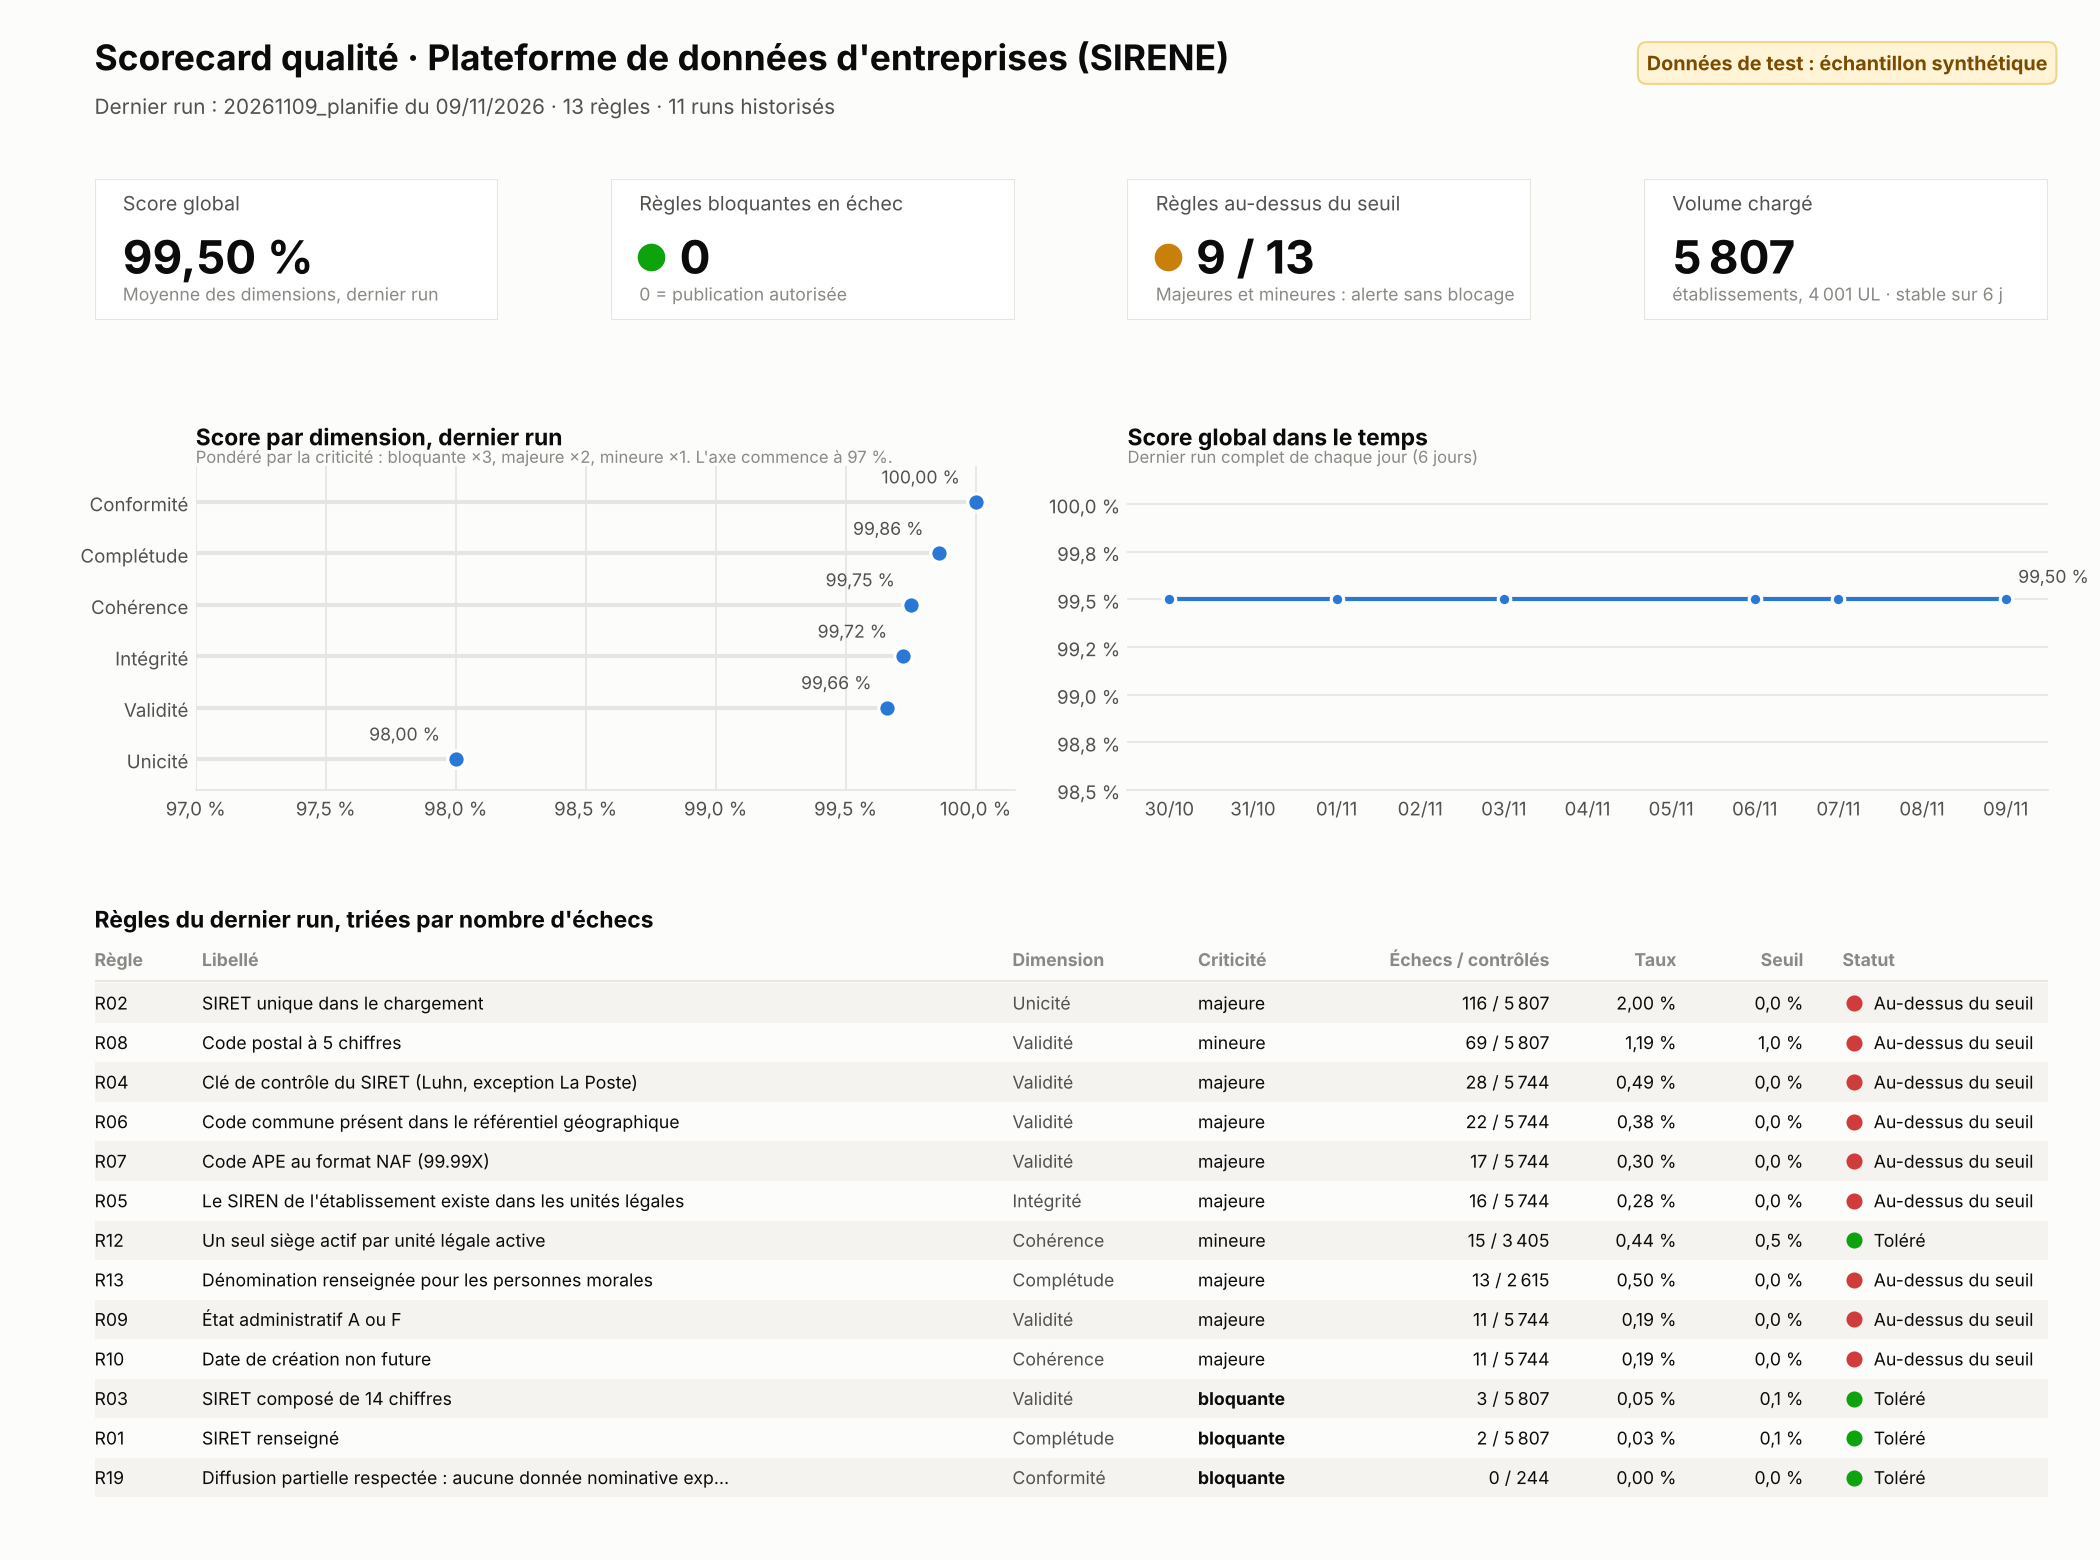
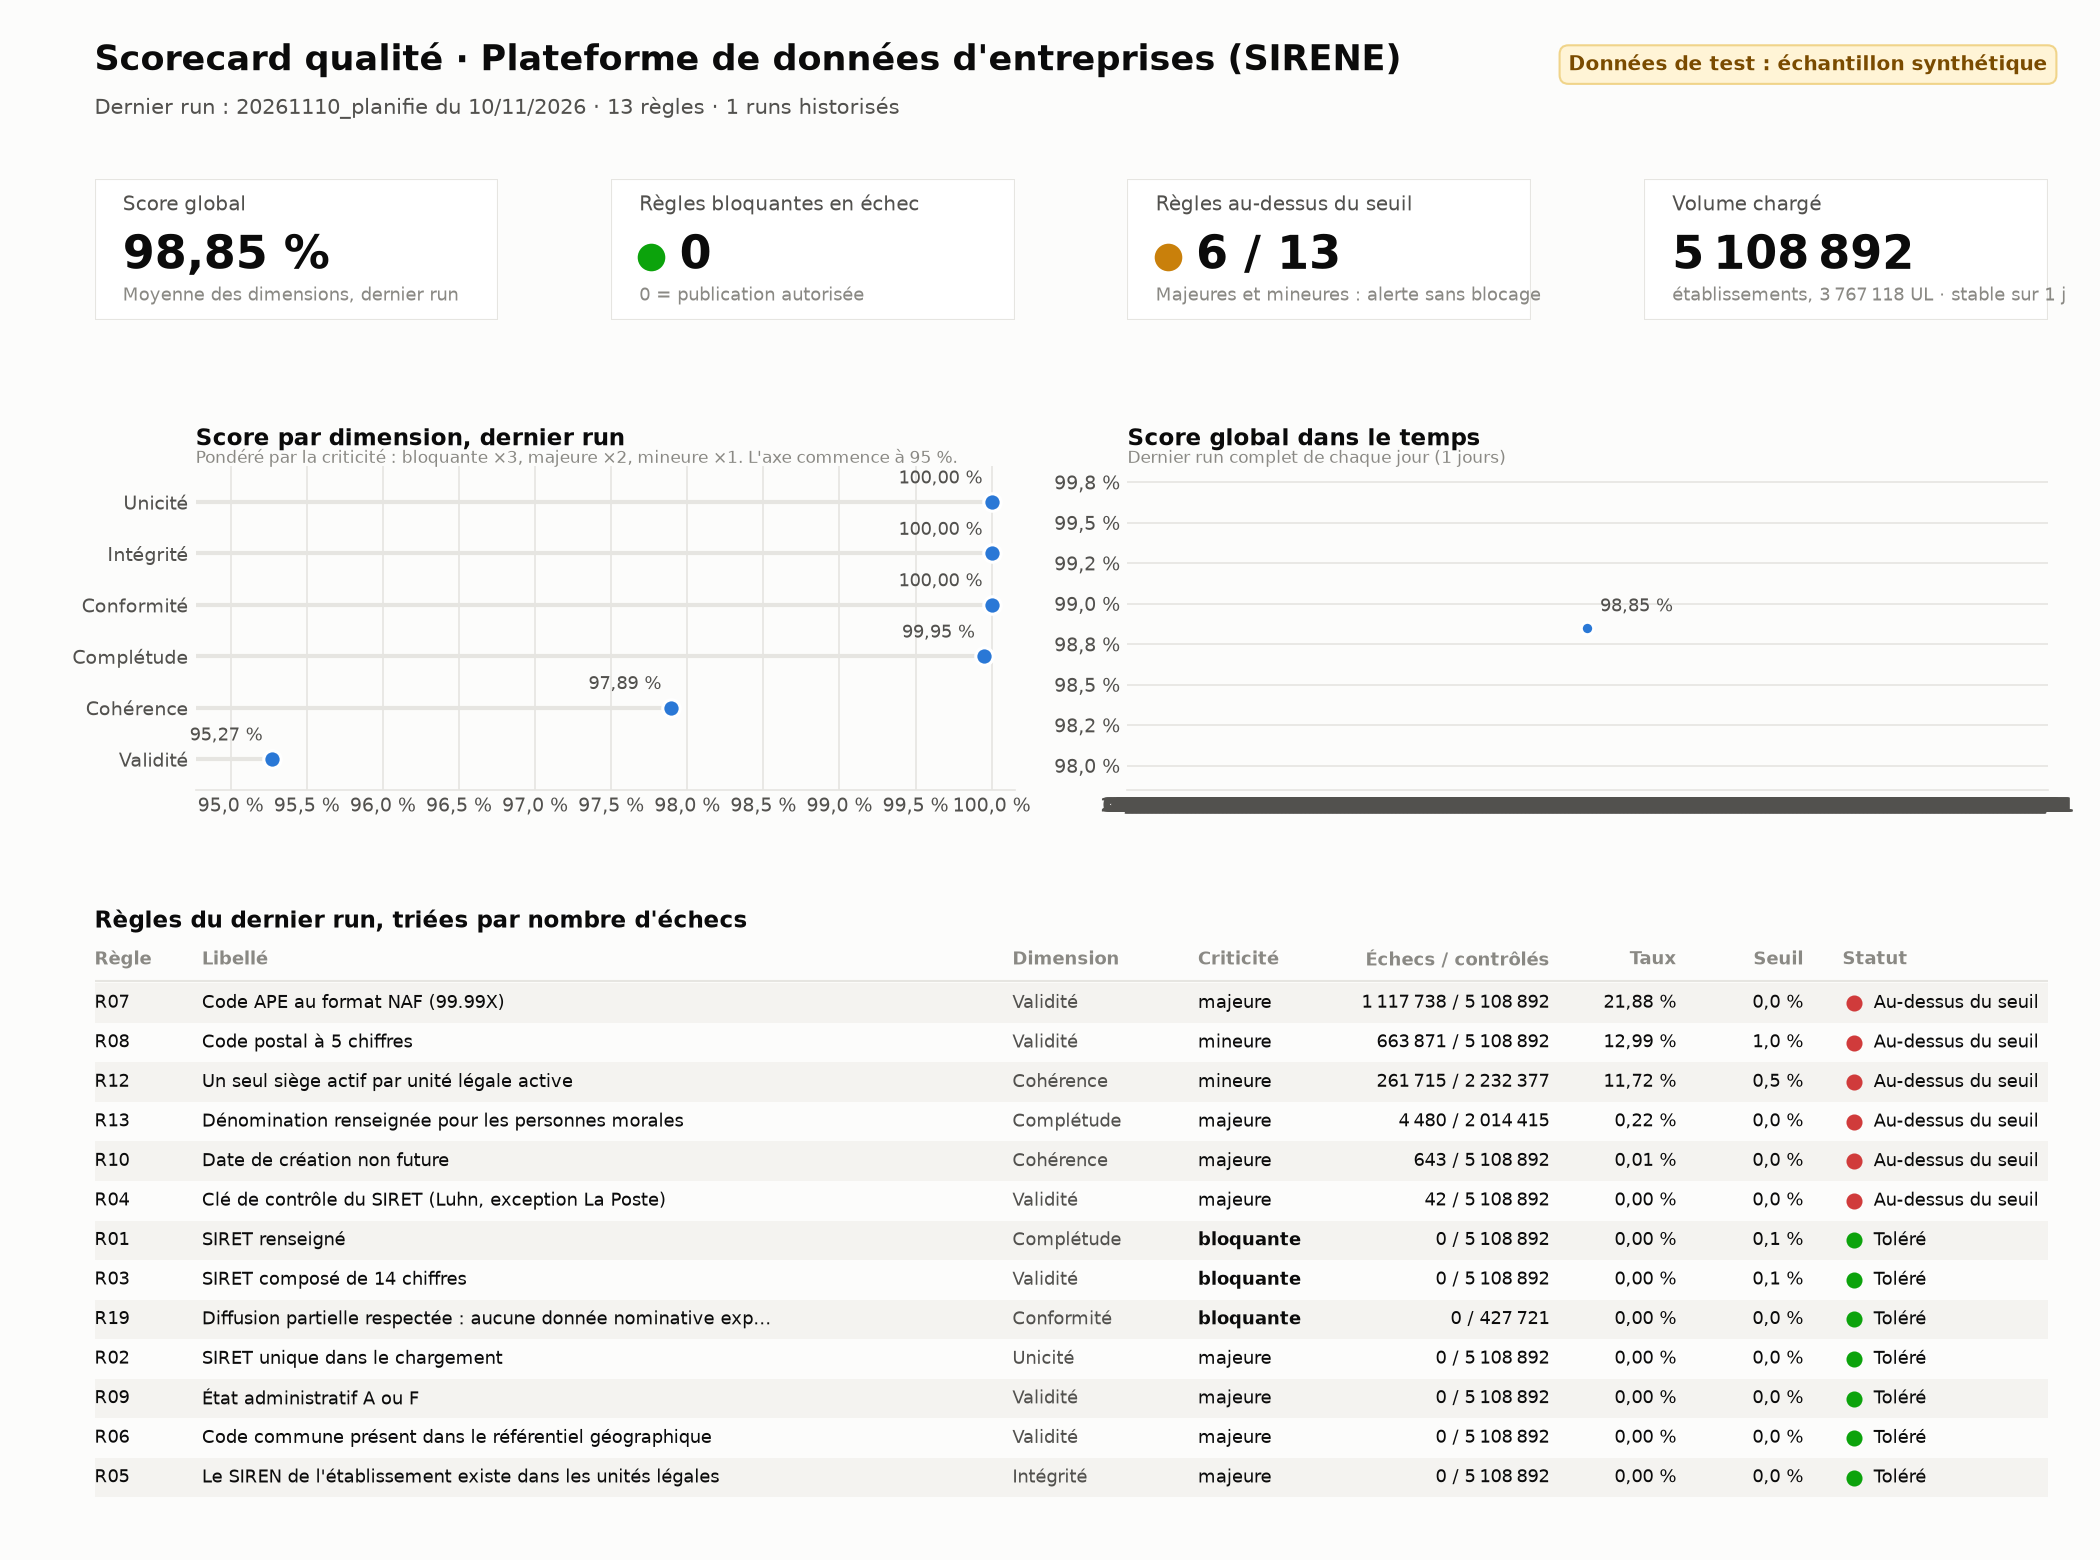
scorecard python

diff --git a/dashboards/scorecard.py b/dashboards/scorecard.py
@@ -1,0 +1,253 @@
+"""Scorecard qualité : une image PNG lisible en dix secondes, construite depuis exports/.
+
+    python dashboards/scorecard.py                      # lit exports/, écrit dashboards/scorecard.png
+    python dashboards/scorecard.py --exports exports_historique --sortie dashboards/scorecard_historique.png
+
+Le scorecard est du code : il se régénère après chaque run, se versionne et se relit
+en revue, comme le reste du pipeline. Power BI reste possible à partir des mêmes CSV.
+"""
+import argparse
+from pathlib import Path
+
+import matplotlib
+
+matplotlib.use("Agg")
+import matplotlib.dates as mdates  # noqa: E402
+import matplotlib.ticker  # noqa: E402,F401
+import matplotlib.pyplot as plt  # noqa: E402
+import pandas as pd  # noqa: E402
+
+RACINE = Path(__file__).resolve().parent.parent
+
+# Encre, surface, couleurs. Le bleu porte la donnée ; les couleurs de statut ne servent
+# qu'aux statuts et sont toujours accompagnées d'un libellé.
+SURFACE = "#fcfcfb"
+ENCRE = "#0b0b0b"
+ENCRE_2 = "#52514e"
+ENCRE_3 = "#8a8984"
+GRILLE = "#e6e5e1"
+BLEU = "#2a78d6"
+OK = "#0ca30c"
+ECHEC = "#d03b3b"
+ATTENTION = "#c9800b"
+
+plt.rcParams.update({
+    "font.family": "sans-serif",
+    "font.sans-serif": ["Inter", "Segoe UI", "Helvetica", "Arial", "DejaVu Sans"],
+    "font.size": 10,
+    "text.color": ENCRE,
+    "axes.edgecolor": GRILLE,
+    "axes.labelcolor": ENCRE_2,
+    "xtick.color": ENCRE_2,
+    "ytick.color": ENCRE_2,
+    "figure.facecolor": SURFACE,
+    "axes.facecolor": SURFACE,
+})
+
+ORDRE_CRITICITE = {"bloquante": 0, "majeure": 1, "mineure": 2}
+
+
+def pct(x, decimales=2):
+    return f"{x:.{decimales}f}".replace(".", ",") + " %"
+
+
+def nombre(n):
+    return f"{int(n):,}".replace(",", " ")
+
+
+def charger(dossier):
+    scores = pd.read_csv(dossier / "dq_scores.csv", parse_dates=["date_chargement"])
+    resultats = pd.read_csv(dossier / "dq_resultats.csv", parse_dates=["date_chargement"])
+    chargements = pd.read_csv(dossier / "chargements.csv", parse_dates=["date_chargement"])
+    return scores, resultats, chargements
+
+
+def runs_complets(resultats):
+    """Un run est complet s'il a évalué autant de règles que le run le plus complet.
+    Un run interrompu (dbt en erreur, par exemple) fausserait la tendance."""
+    nb = resultats.groupby("run_id")["regle_id"].nunique()
+    return set(nb[nb == nb.max()].index)
+
+
+def dernier_run_par_jour(table, complets):
+    t = table[table["run_id"].isin(complets)]
+    derniers = t.groupby("date_chargement")["run_id"].max()
+    return t[t["run_id"].isin(derniers.values)]
+
+
+def tuile(ax, titre, valeur, detail, couleur_valeur=ENCRE, pastille=None):
+    ax.set_axis_off()
+    ax.add_patch(plt.Rectangle((0, 0), 1, 1, transform=ax.transAxes, facecolor="white",
+                               edgecolor=GRILLE, linewidth=1))
+    ax.text(0.07, 0.78, titre, fontsize=9.5, color=ENCRE_2, transform=ax.transAxes)
+    x = 0.07
+    if pastille:
+        ax.scatter([0.10], [0.45], s=150, color=pastille, transform=ax.transAxes, clip_on=False)
+        x = 0.17
+    ax.text(x, 0.45, valeur, fontsize=22, fontweight="bold", color=couleur_valeur,
+            va="center", transform=ax.transAxes)
+    ax.text(0.07, 0.14, detail, fontsize=8.5, color=ENCRE_3, transform=ax.transAxes)
+
+
+def graphe_dimensions(ax, dims):
+    dims = dims.sort_values("score_pct")
+    y = range(len(dims))
+    bas = min(97.0, dims["score_pct"].min() - 0.5)
+    ax.hlines(y, bas, dims["score_pct"], color=GRILLE, linewidth=2)
+    ax.scatter(dims["score_pct"], y, s=70, color=BLEU, zorder=3, edgecolor="white", linewidth=1.5)
+    for i, (_, l) in enumerate(dims.iterrows()):
+        ax.text(l["score_pct"] - 0.06, i + 0.28, pct(l["score_pct"]), fontsize=8.5,
+                color=ENCRE_2, ha="right", va="bottom")
+    ax.set_yticks(list(y), dims["dimension"])
+    ax.set_xlim(bas, 100.15)
+    ax.set_ylim(-0.6, len(dims) - 0.3)
+    ax.xaxis.set_major_locator(matplotlib.ticker.MultipleLocator(0.5))
+    ax.xaxis.set_major_formatter(lambda v, _: f"{v:.1f} %".replace(".", ","))
+    ax.tick_params(length=0, labelsize=9)
+    ax.grid(axis="x", color=GRILLE, linewidth=0.8)
+    ax.set_axisbelow(True)
+    for cote in ("top", "right", "left"):
+        ax.spines[cote].set_visible(False)
+    ax.set_title("Score par dimension, dernier run", loc="left", fontsize=11,
+                 fontweight="bold", pad=10)
+    ax.text(0, 1.01, "Pondéré par la criticité : bloquante ×3, majeure ×2, mineure ×1. "
+            "L'axe commence à " + f"{bas:.0f} %.", transform=ax.transAxes, fontsize=8,
+            color=ENCRE_3)
+
+
+def graphe_tendance(ax, tendance):
+    ax.plot(tendance["date_chargement"], tendance["score_pct"], color=BLEU, linewidth=2,
+            marker="o", markersize=6, markeredgecolor="white", markeredgewidth=1.5)
+    der = tendance.iloc[-1]
+    ax.annotate(pct(der["score_pct"]), (der["date_chargement"], der["score_pct"]),
+                xytext=(6, 8), textcoords="offset points", fontsize=8.5, color=ENCRE_2)
+    centre = tendance["score_pct"].mean()
+    marge = max(1.0, (tendance["score_pct"].max() - tendance["score_pct"].min()) * 1.5)
+    ax.set_ylim(max(0, centre - marge), min(100.2, centre + marge))
+    ax.yaxis.set_major_formatter(lambda v, _: f"{v:.1f} %".replace(".", ","))
+    ax.xaxis.set_major_formatter(mdates.DateFormatter("%d/%m"))
+    ax.xaxis.set_major_locator(mdates.DayLocator(interval=max(1, len(tendance) // 7 or 1)))
+    ax.tick_params(length=0, labelsize=9)
+    ax.grid(axis="y", color=GRILLE, linewidth=0.8)
+    ax.set_axisbelow(True)
+    for cote in ("top", "right", "left"):
+        ax.spines[cote].set_visible(False)
+    ax.set_title("Score global dans le temps", loc="left", fontsize=11, fontweight="bold", pad=10)
+    ax.text(0, 1.01, f"Dernier run complet de chaque jour ({len(tendance)} jours)",
+            transform=ax.transAxes, fontsize=8, color=ENCRE_3)
+
+
+def tableau_regles(ax, regles):
+    ax.set_axis_off()
+    regles = regles.assign(_c=regles["criticite"].map(ORDRE_CRITICITE)) \
+        .sort_values(["nb_echecs", "_c"], ascending=[False, True])
+    colonnes = [("Règle", 0.0), ("Libellé", 0.055), ("Dimension", 0.47), ("Criticité", 0.565),
+                ("Échecs / contrôlés", 0.655), ("Taux", 0.77), ("Seuil", 0.835), ("Statut", 0.895)]
+    droite = {"Échecs / contrôlés": 0.745, "Taux": 0.81, "Seuil": 0.875}
+    n = len(regles)
+    h = 1 / (n + 1.6)
+    y0 = 1 - h * 0.6
+    for nom, x in colonnes:
+        ax.text(droite.get(nom, x), y0, nom, fontsize=8.5, color=ENCRE_3, fontweight="bold",
+                transform=ax.transAxes, va="center", ha="right" if nom in droite else "left")
+    ax.plot([0, 1], [y0 - h * 0.55] * 2, color=GRILLE, linewidth=1, transform=ax.transAxes)
+    for i, (_, r) in enumerate(regles.iterrows()):
+        y = y0 - h * (i + 1.1)
+        if i % 2 == 0:
+            ax.add_patch(plt.Rectangle((0, y - h / 2), 1, h, transform=ax.transAxes,
+                                       facecolor="#f4f3f0", edgecolor="none"))
+        statut = r["statut"]
+        libelle_statut, couleur = {"ok": ("Toléré", OK), "echec": ("Au-dessus du seuil", ECHEC),
+                                   "erreur": ("Erreur", ATTENTION)}.get(statut, (statut, ENCRE_3))
+        valeurs = {
+            "Règle": r["regle_id"],
+            "Libellé": r["libelle"] if len(r["libelle"]) <= 62 else r["libelle"][:60] + "…",
+            "Dimension": r["dimension"],
+            "Criticité": r["criticite"],
+            "Échecs / contrôlés": f"{nombre(r['nb_echecs'])} / {nombre(r['nb_controles'])}",
+            "Taux": pct(100 * r["taux_echec"]),
+            "Seuil": pct(100 * r["seuil"], 1),
+        }
+        for nom, x in colonnes[:-1]:
+            ax.text(droite.get(nom, x), y, valeurs[nom], fontsize=8.5, transform=ax.transAxes,
+                    va="center", ha="right" if nom in droite else "left",
+                    color=ENCRE if nom != "Dimension" else ENCRE_2,
+                    fontweight="bold" if nom == "Criticité" and r["criticite"] == "bloquante" else None)
+        ax.scatter([colonnes[-1][1] + 0.006], [y], s=45, color=couleur, transform=ax.transAxes,
+                   clip_on=False)
+        ax.text(colonnes[-1][1] + 0.016, y, libelle_statut, fontsize=8.5, color=ENCRE,
+                transform=ax.transAxes, va="center")
+    ax.set_title("Règles du dernier run, triées par nombre d'échecs", loc="left", fontsize=11,
+                 fontweight="bold", pad=4)
+
+
+def construire(dossier, sortie, mention):
+    scores, resultats, chargements = charger(dossier)
+    complets = runs_complets(resultats)
+    dernier = max(complets)
+    regles = resultats[resultats["run_id"] == dernier]
+    s_dernier = scores[scores["run_id"] == dernier]
+    global_ = s_dernier.loc[s_dernier["dimension"] == "GLOBAL", "score_pct"].iloc[0]
+    dims = s_dernier[s_dernier["dimension"] != "GLOBAL"]
+    tendance = dernier_run_par_jour(scores, complets)
+    tendance = tendance[tendance["dimension"] == "GLOBAL"].sort_values("date_chargement")
+    volumes = chargements[chargements["run_id"] == dernier].set_index("objet")["nb_lignes"]
+    vol_jours = dernier_run_par_jour(chargements, complets)
+    vol_etab = vol_jours[vol_jours["objet"] == "etablissements"]["nb_lignes"]
+    variation = (vol_etab.max() - vol_etab.min()) / vol_etab.max() if len(vol_etab) else 0
+
+    au_dessus = (regles["statut"] != "ok").sum()
+    bloquantes_ko = ((regles["criticite"] == "bloquante") & (regles["statut"] != "ok")).sum()
+    date_run = regles["date_chargement"].iloc[0]
+
+    fig = plt.figure(figsize=(14, 10.4), dpi=150)
+    gs = fig.add_gridspec(3, 4, height_ratios=[1, 2.3, 4.1], hspace=0.42, wspace=0.28,
+                          left=0.045, right=0.975, top=0.885, bottom=0.03)
+
+    fig.text(0.045, 0.955, "Scorecard qualité · Plateforme de données d'entreprises (SIRENE)",
+             fontsize=17, fontweight="bold")
+    fig.text(0.045, 0.927, f"Dernier run : {dernier} du {date_run:%d/%m/%Y} · "
+             f"{len(regles)} règles · {resultats['run_id'].nunique()} runs historisés",
+             fontsize=10, color=ENCRE_2)
+    if mention:
+        fig.text(0.975, 0.955, mention, fontsize=9.5, color="#7a4b00", ha="right",
+                 fontweight="bold",
+                 bbox=dict(boxstyle="round,pad=0.45", facecolor="#fff4d6", edgecolor="#f0d48a"))
+
+    tuile(fig.add_subplot(gs[0, 0]), "Score global", pct(global_),
+          "Moyenne des dimensions, dernier run")
+    tuile(fig.add_subplot(gs[0, 1]), "Règles bloquantes en échec", str(bloquantes_ko),
+          "0 = publication autorisée", pastille=OK if bloquantes_ko == 0 else ECHEC)
+    tuile(fig.add_subplot(gs[0, 2]), "Règles au-dessus du seuil", f"{au_dessus} / {len(regles)}",
+          "Majeures et mineures : alerte sans blocage",
+          pastille=OK if au_dessus == 0 else ATTENTION)
+    tuile(fig.add_subplot(gs[0, 3]), "Volume chargé",
+          nombre(volumes.get("etablissements", 0)),
+          f"établissements, {nombre(volumes.get('unites_legales', 0))} UL · "
+          + ("stable" if variation == 0 else f"écart {pct(100 * variation, 1)}")
+          + f" sur {len(vol_etab)} j")
+
+    sous = gs[1, :2].subgridspec(1, 2, width_ratios=[0.11, 0.89], wspace=0)
+    graphe_dimensions(fig.add_subplot(sous[0, 1]), dims)
+    graphe_tendance(fig.add_subplot(gs[1, 2:]), tendance)
+    tableau_regles(fig.add_subplot(gs[2, :]), regles)
+
+    sortie.parent.mkdir(parents=True, exist_ok=True)
+    fig.savefig(sortie, dpi=150, facecolor=SURFACE)
+    print(f"Scorecard écrit : {sortie}")
+    print(f"  score global {pct(global_)} · {au_dessus}/{len(regles)} règles au-dessus du seuil · "
+          f"{bloquantes_ko} bloquante(s) en échec")
+
+
+def main():
+    p = argparse.ArgumentParser(description=__doc__.splitlines()[0])
+    p.add_argument("--exports", type=Path, default=RACINE / "exports")
+    p.add_argument("--sortie", type=Path, default=RACINE / "dashboards" / "scorecard.png")
+    p.add_argument("--mention", default="Données de test : échantillon synthétique",
+                   help="bandeau en haut à droite ; chaîne vide pour le retirer")
+    a = p.parse_args()
+    construire(a.exports, a.sortie, a.mention)
+
+
+if __name__ == "__main__":
+    main()
